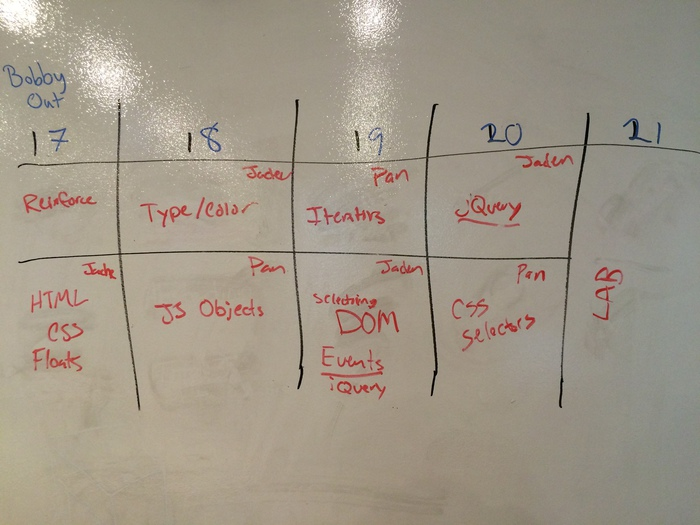
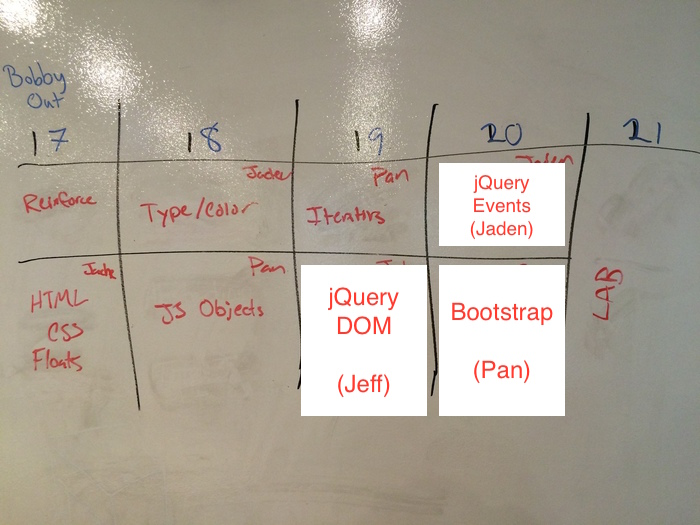
Updated week 2 - JQuery events lesson

Changed region(s): [[0.42, 0.3048, 0.81, 0.7924]]

diff --git a/u2-the-browser/d09-strap-in/events.md b/u2-the-browser/d09-strap-in/events.md
@@ -1,0 +1,10 @@
+# jQuery Events
+
+##### AGENDA
+- Demonstrate Browser Incompatibility
+- jQuery Events
+- Event Bubbling
+- jQuery Animation
+
+##### LEARNING OBJECTIVES
+- SWBAT 
